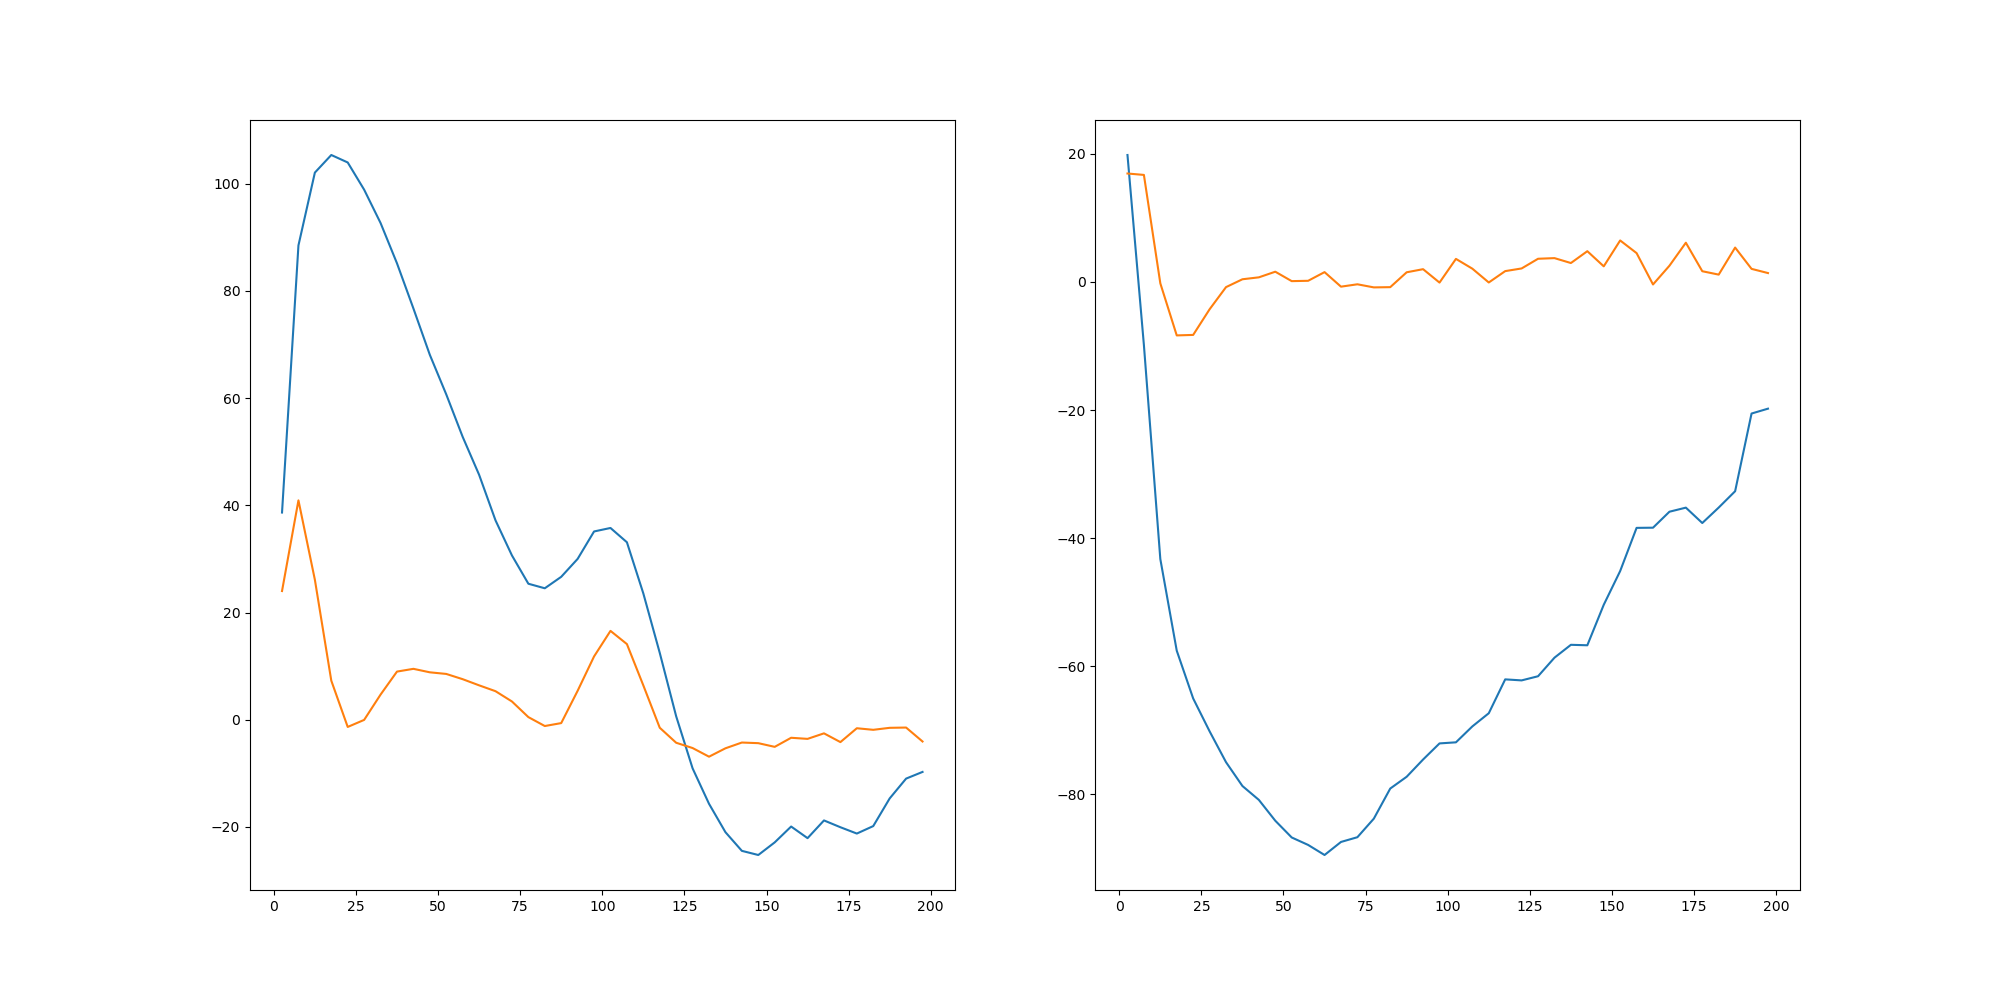
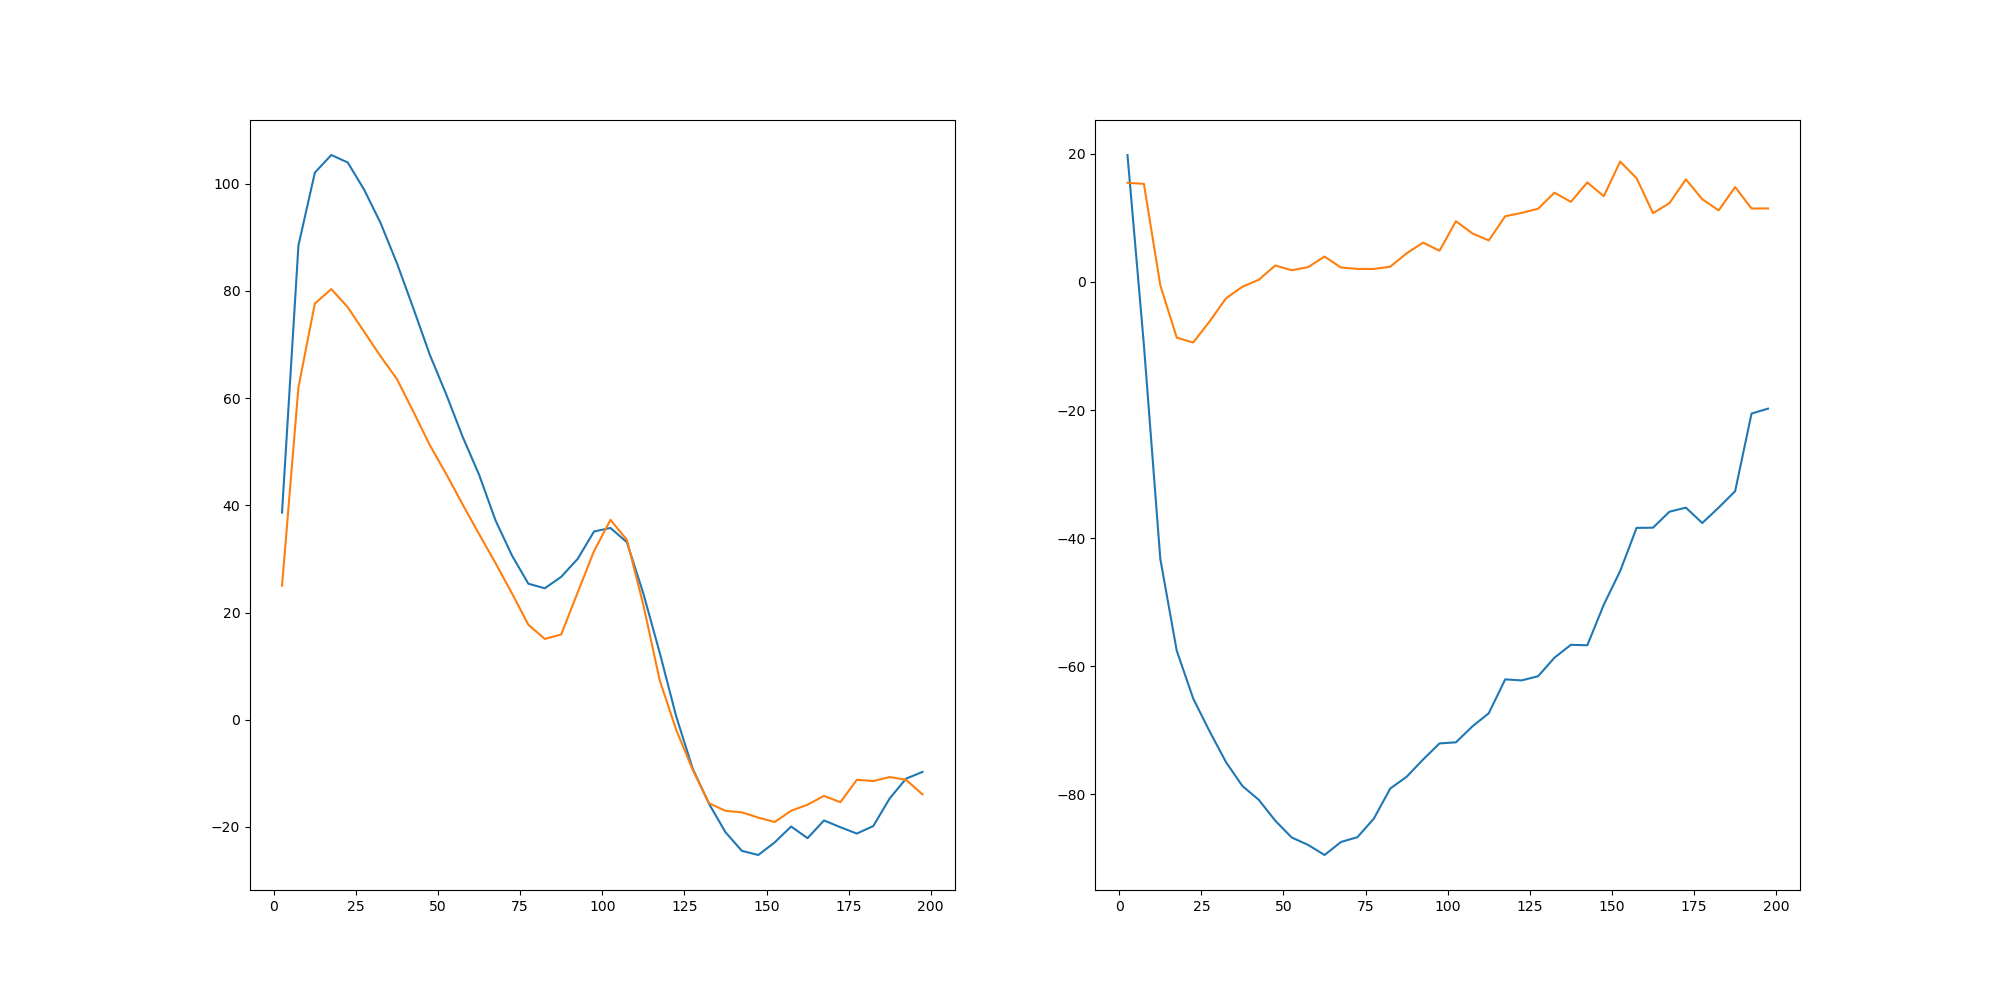
Normalization of delta field is correct in box without randoms. S catalog is still needed for 2PCF so if no randoms are provided and full reconstruction is needed, the catalogs will be created, shifted and saved on the go.

diff --git a/python_tools/recon.py b/python_tools/recon.py
@@ -422,6 +422,48 @@ class Recon:
 
         return shift_x, shift_y, shift_z
 
+    def get_shift_array(self, x_arr, y_arr, z_arr, f_x, f_y, f_z):
+        """Given grid of f_x, f_y and f_z values, uses interpolation scheme to compute
+        appropriate values at the galaxy positions"""
+
+        xmin = self.xmin
+        ymin = self.ymin
+        zmin = self.zmin
+        binsize = self.binsize
+
+        xpos = (x_arr - xmin) / binsize
+        ypos = (y_arr - ymin) / binsize
+        zpos = (z_arr - zmin) / binsize
+        
+
+        i = xpos.astype(int)
+        j = ypos.astype(int)
+        k = zpos.astype(int)
+
+        ddx = xpos - i
+        ddy = ypos - j
+        ddz = zpos - k
+
+        shift_x = np.zeros(x_arr.shape[0])
+        shift_y = np.zeros(y_arr.shape[0])
+        shift_z = np.zeros(z_arr.shape[0])
+
+        for ii in range(2):
+            for jj in range(2):
+                for kk in range(2):
+                    weight = (((1 - ddx) + ii * (-1 + 2 * ddx)) *
+                              ((1 - ddy) + jj * (-1 + 2 * ddy)) *
+                              ((1 - ddz) + kk * (-1 + 2 * ddz)))
+                    if self.is_box:
+                        pos = ((i + ii) % self.nbins, (j + jj) % self.nbins, (k + kk) % self.nbins)
+                    else:
+                        pos = (i + ii, j + jj, k + kk)
+                    shift_x += f_x[pos] * weight
+                    shift_y += f_y[pos] * weight
+                    shift_z += f_z[pos] * weight
+
+        return shift_x, shift_y, shift_z
+
     def export_shift_pos(self, root1, root2='', rsd_only=True):
         """method to write the shifted positions to file"""
 
@@ -435,19 +477,35 @@ class Recon:
             # t.write(out_file, format='fits')
             #np.save(out_file, output)
             np.savetxt(out_file+".dat", output, fmt='%.4f')
-            if not rsd_only and self.ran is not None:
+            if not rsd_only:
                 print("==> Saving shifted randoms.", flush=True)
                 # same as above, but for the randoms as well
-                output = np.ones((self.ran.size, 4))
-                output[:, 0] = self.ran.newx
-                output[:, 1] = self.ran.newy
-                output[:, 2] = self.ran.newz
-                if self.ran.weights_model == 1:
-                    output[:, 3] = self.ran.get_weights(fkp=True, syst_wts=True) #Put fkp true since there are the original weights
-                    #output[:, 3] = 1  # we don't include any systematics weights for the random catalogue
-                elif self.ran.weights_model == 2 or self.ran.weights_model == 3:
-                    output[:, 3] = self.ran.get_weights(fkp=True, syst_wts=True) #Put fkp true since there are the original weights
-                out_file = root2 + '_shift'
+                
+                if self.ran is not None:
+                    output = np.ones((self.ran.size, 4))
+                    output[:, 0] = self.ran.newx
+                    output[:, 1] = self.ran.newy
+                    output[:, 2] = self.ran.newz
+                    if self.ran.weights_model == 1:
+                        output[:, 3] = self.ran.get_weights(fkp=True, syst_wts=True) #Put fkp true since there are the original weights
+                        #output[:, 3] = 1  # we don't include any systematics weights for the random catalogue
+                    elif self.ran.weights_model == 2 or self.ran.weights_model == 3:
+                        output[:, 3] = self.ran.get_weights(fkp=True, syst_wts=True) #Put fkp true since there are the original weights
+                    out_file = root2 + '_shift'
+                else:
+                    print(f"==> No randoms provided, creating randoms in (0, {self.cat.box_length}).", flush=True)
+                    output=self.cat.box_length * np.random.random(3 * 10 * self.cat.size).reshape((10 *self.cat.size, 3))
+                    print("==> Shifting generated randoms", flush=True)
+                    shift_x, shift_y, shift_z = \
+                        self.get_shift_array(output[:,0], output[:,1], output[:,2], self.psi_x.real, self.psi_y.real, self.psi_z.real)
+                    output += np.c_[shift_x, shift_y, shift_z]
+                    # account for PBC
+                    for i in range(3):
+                        output[output[:,i]>=self.cat.box_length,i]-= self.cat.box_length
+                        output[output[:,i]<0,i]+= self.cat.box_length
+                    out_file = root1 + '.ran' + '_shift'
+                    print(f"==> Saving randoms to {out_file}", flush=True)
+                    
                 # t = Table(output, names=('RA', 'DEC', 'Z', 'WEIGHT_SYSTOT'))
                 # t.write(out_file, format='fits')
                 #np.save(out_file, output)

diff --git a/notebooks/tpcf_test.py b/notebooks/tpcf_test.py
@@ -35,10 +35,11 @@ def two_point_box(data, bins, box_size):
 def main_fcfc_box():
     pre_recon = "tests/CATALPTCICz0.466G960S1005638091_zspace.dat"
     post_recon = "tests/CATALPTCICz0.466G960S1005638091_zspace_pos_shift.dat"
+    post_recon_ran = "tests/CATALPTCICz0.466G960S1005638091_zspace_pos.ran_shift.dat"
     pre_recon_fn = [os.path.splitext(pre_recon)[0]+"."+s for s in ['dd', 'dr', 'rr', '2pcf']]
-    post_recon_fn = [os.path.splitext(post_recon)[0]+"."+s for s in ['dd', 'dr', 'rr', '2pcf']]
+    post_recon_fn = [os.path.splitext(post_recon)[0]+"."+s for s in ['dd', 'ds', 'ss', '2pcf']]
     #subprocess.check_call(["bin/2pcf_box", "--conf=notebooks/fcfc.conf", f"--data={pre_recon}", f"--dd={pre_recon_fn[0]}", f"--dr={pre_recon_fn[1]}", f"--rr={pre_recon_fn[2]}", f"--output={pre_recon_fn[3]}"])
-    subprocess.check_call(["srun", "-p", "p5", "-n1", "-c32", "bin/2pcf_box", "--conf=notebooks/fcfc.conf", f"--data={post_recon}", f"--dd={post_recon_fn[0]}", f"--dr={post_recon_fn[1]}", f"--rr={post_recon_fn[2]}", f"--output={post_recon_fn[3]}"])
+    subprocess.check_call(["srun", "-p", "p5", "-n1", "-c32", "bin/2pcf_box", "--conf=notebooks/fcfc.conf", f"--data={post_recon}", f"--rand={post_recon_ran}", f"--dd={post_recon_fn[0]}", f"--dr={post_recon_fn[1]}", f"--rr={post_recon_fn[2]}", f"--output={post_recon_fn[3]}", "--count-mode=7", "--cf-mode=1"])
     pre_2pcf = pd.read_csv(pre_recon_fn[3], delim_whitespace=True, engine='c', names = ['s', 'mono', 'quad', 'hexa'])
     post_2pcf = pd.read_csv(post_recon_fn[3], delim_whitespace=True, engine='c', names = ['s', 'mono', 'quad', 'hexa'])
     fig, ax = plt.subplots(1,2, figsize=(20,10))
@@ -291,6 +292,6 @@ def main_astroml():
 
 if __name__ == '__main__':
     #main_corrfunc()
-    #main_fcfc_box()
+    main_fcfc_box()
     #main_fcfc_lc()
-    main_fcfc_ran_box()
+    #main_fcfc_ran_box()

diff --git a/parameters/params_box.py b/parameters/params_box.py
@@ -25,7 +25,7 @@ padding = 200.  # for survey data, the extra 'padding' for the cubic box, in Mpc
 smooth = 10.    # smoothing scale in Mpc/h
 bias = 1.92        # the linear galaxy/tracer bias value
 f = 0.743         # the linear growth rate at the mean redshift
-rsd_corr = True # if False, no RSD correction is performed and niter should be 1. Use when supplying real-space catalogs.
+rsd_corr = True # if False, no RSD correction is performed and niter should be 1. False when supplying real-space catalogs.
 niter = 3       # number of iterations in the FFT reconstruction method, 3 is sufficient
 # NOTE: for box data, reconstruction assumes plane-parallel approximation with single l-o-s along the box z-axis!!
 # ========================================= #
